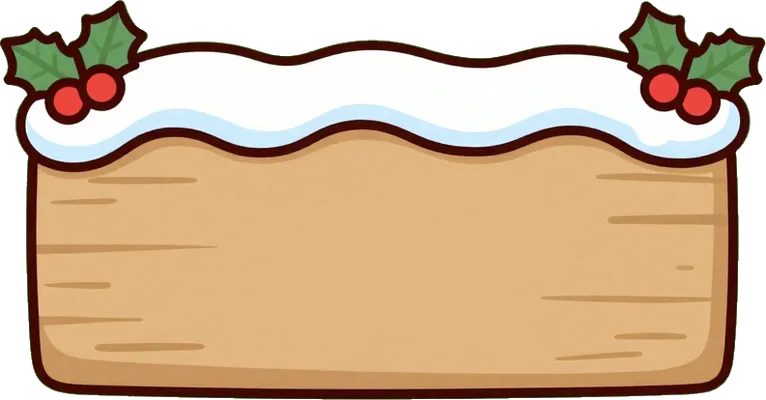
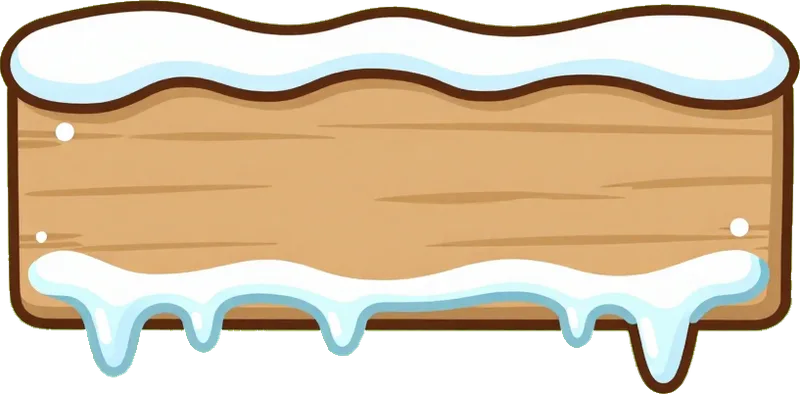
feat(home): icy signboard and gashapon card composed from the machine illustration
Sign: snow on top, a row of icicles below, no christmas holly. The card
background is generated, the machine is pasted from gashapon/img so both
pages show the same machine. build-cards --only / build-sign now stamp
content hashes into index.html / home.css.

Claude-Session: https://claude.ai/code/session_01SemYkQLkTmSDDeYUKQcPZG

diff --git a/css/home.css b/css/home.css
@@ -21,18 +21,19 @@ body {
 
 /* 標題掛在一塊木牌上(生成圖,透明背景)。文字仍然是 HTML,不畫進圖裡 ——
    生圖模型畫中文字會錯,而且圖裡的字螢幕閱讀器讀不到、之後也改不了。
-   木牌上緣 ~25% 是積雪,文字要往下推,落在木板中間。 */
+   木牌上緣是積雪、下緣是冰柱(2026-10-01 冰雪版),木板本體的中心在 52% 高度,文字往下推一點落在正中間。 */
 .home-head h1 {
   display: inline-grid;
   place-items: center;
   --sign-w: clamp(240px, 62vw, 380px);
   width: var(--sign-w);
-  aspect-ratio: 766 / 400;            /* 跟 img/home/sign.webp 一樣 */
+  aspect-ratio: 800 / 394;            /* 跟 img/home/sign.webp 一樣 */
   /* 不能寫 padding-top: 7% —— padding 的百分比是相對「外層容器」的寬度,
      不是木牌本身,視窗越寬字被推得越低(1440 寬時字掉到木牌 75% 的高度)。 */
-  padding-top: calc(var(--sign-w) * .15);   /* 讓字落在積雪下方那塊木板的中間(約 65% 高度) */
+  /* 字是置中排的,木板中心比正中央低 2.2%:padding-top = 2 × 0.022 × 木牌高(0.4925 × 寬)≈ 寬 × .022 */
+  padding-top: calc(var(--sign-w) * .022);
   font-size: calc(var(--sign-w) * .1);   /* 字跟著木牌大小縮放 */
-  background: url("../img/home/sign.webp") center / contain no-repeat;
+  background: url("../img/home/sign.webp?v=7c822ad7") center / contain no-repeat;
 }
 
 .home-grid {
@@ -82,8 +83,15 @@ body {
 }
 
 /* 扭蛋機:上白下彩,跟膠囊造型呼應 */
-.card__art--gashapon {
-  background: linear-gradient(to bottom, #fff 50%, var(--coral) 50%);
+/* 有插畫的卡片(2026-10-01 起扭蛋機先換;其他模式跟著各自的素材 issue):4:3、撐滿卡片內緣 */
+.card__art--img {
+  width: 100%;
+  height: auto;
+  aspect-ratio: 4 / 3;
+  border-radius: 14px;
+  border: 3px solid var(--ink);
+  object-fit: cover;
+  display: block;
 }
 
 /* 立體扭蛋機:加一顆高光,做出球體感 */

diff --git a/test/home-images.test.js b/test/home-images.test.js
@@ -14,7 +14,7 @@ function refs() {
   const fromHtml = [...html.matchAll(/<img\b[^>]*\bsrc="([^"]+)"/g)].map(m => m[1]);
   // home.css 的 url() 相對於 css/,換算成相對於 repo 根目錄
   const fromCss = [...css.matchAll(/url\(\s*["']?([^"')]+)["']?\s*\)/g)].map(m => join('css', m[1]));
-  return [...fromHtml, ...fromCss].filter(p => !/^(data:|https?:)/.test(p));
+  return [...fromHtml, ...fromCss].filter(p => !/^(data:|https?:)/.test(p)).map(p => p.split('?')[0]);
 }
 
 // 卡片插畫延到各模式的 issue(#2~#6)一起做,這一輪首頁只有標題木牌
@@ -24,4 +24,8 @@ test('首頁標題有用到木牌插畫', () => {
 
 test('首頁引用的每一張圖都存在', () => {
   for (const p of refs()) assert.ok(existsSync(join(root, p)), `找不到 ${p}`);
+});
+
+test('首頁的扭蛋機卡片用了插畫(機台跟扭蛋機頁同一張合成)', () => {
+  assert.ok(refs().some(p => p.endsWith('img/home/gashapon.webp')), refs().join('\n'));
 });

diff --git a/index.html b/index.html
@@ -15,7 +15,7 @@
 </header>
 <main class="home-grid">
   <a class="card" href="gashapon/">
-    <span class="card__art card__art--gashapon" aria-hidden="true"></span>
+    <img class="card__art card__art--img" src="img/home/gashapon.webp?v=107d85a2" alt="" aria-hidden="true">
     <span class="card__name">扭蛋機</span>
     <span class="card__desc">搖越多次越大獎</span>
   </a>

diff --git a/tools/mascot-gen/home.py b/tools/mascot-gen/home.py
@@ -21,6 +21,7 @@ from PIL import Image
 
 import comfy
 from post import key_border, keep_largest
+from gashapon_art import compose_card, content_hash, stamp, clear_green_fringe
 
 ROOT = Path(__file__).resolve().parents[2]
 HERE = Path(__file__).resolve().parent
@@ -137,8 +138,22 @@ def card_images(cfg):
 
 def cmd_build_cards(args):
     DEST.mkdir(parents=True, exist_ok=True)
-    for m, im in card_images(load_cfg()).items():
-        webp(im.resize((640, 480), Image.LANCZOS), DEST / f'{m}.webp')
+    cfg = load_cfg()
+    if args.only:
+        # 只輸出單張(各模式的卡片跟著自己的素材 issue 做,不必等 5 張都挑好)
+        if args.only not in cfg.get('picks', {}):
+            sys.exit(f'還沒 pick:{args.only}')
+        images = {args.only: Image.open(OUT / args.only / f's{cfg["picks"][args.only]}.png').convert('RGB')}
+    else:
+        images = card_images(cfg)
+    page = ROOT / 'index.html'
+    for m, im in images.items():
+        if m == 'gashapon':
+            # 機台用扭蛋機頁那張,不讓 z_image 另外畫一台
+            im = compose_card(im, Image.open(ROOT / 'gashapon' / 'img' / 'machine.webp'))
+        path = DEST / f'{m}.webp'
+        webp(im.resize((640, 480), Image.LANCZOS), path)
+        page.write_text(stamp(page.read_text(), f'img/home/{m}.webp', content_hash(path)))
     report()
 
 
@@ -149,10 +164,14 @@ def cmd_build_sign(args):
     DEST.mkdir(parents=True, exist_ok=True)
     sign = Image.open(OUT / 'sign' / f's{cfg["picks"]["sign"]}.png').convert('RGB')
     # z_image 不保證畫出純綠底,所以從邊緣往內填色去背,再清掉散落的小點
-    rgba = Image.fromarray(keep_largest(key_border(np.asarray(sign))))
+    # 腳下的綠色陰影比底色深、又連著木牌,key_border 吃不掉 → 再過一道 clear_green_fringe
+    rgba = Image.fromarray(keep_largest(clear_green_fringe(key_border(np.asarray(sign)))))
     rgba = rgba.crop(rgba.getbbox())          # 裁掉去背後四周的透明邊
     rgba.thumbnail((800, 400), Image.LANCZOS)
     webp(rgba, DEST / 'sign.webp')
+    print('sign size', rgba.size)
+    css = ROOT / 'css' / 'home.css'
+    css.write_text(stamp(css.read_text(), '../img/home/sign.webp', content_hash(DEST / 'sign.webp')))
     report()
 
 
@@ -169,7 +188,7 @@ def main():
     sub.add_parser('sign')
     sub.add_parser('review')
     p = sub.add_parser('pick'); p.add_argument('name', choices=['sheet', *MODES, 'sign']); p.add_argument('n', type=int)
-    sub.add_parser('build-cards')
+    bc = sub.add_parser('build-cards'); bc.add_argument('--only', choices=MODES)
     sub.add_parser('build-sign')
     args = ap.parse_args()
     {'sheet': cmd_sheet, 'cards': cmd_cards, 'sign': cmd_sign, 'review': cmd_review, 'pick': cmd_pick, 'build-cards': cmd_build_cards, 'build-sign': cmd_build_sign}[args.cmd](args)

diff --git a/tools/mascot-gen/test_gashapon_art.py b/tools/mascot-gen/test_gashapon_art.py
@@ -160,3 +160,17 @@ class Panel(unittest.TestCase):
             close = lambda px, rgb: all(abs(int(a) - b) <= 8 for a, b in zip(px[:3], rgb))
             self.assertTrue(close(out[325, 400], (255, 250, 235)), out[325, 400])   # 面板中心
             self.assertTrue(close(out[325, 80], (150, 200, 240)), out[325, 80])     # 面板左邊外面是框
+
+
+from gashapon_art import compose_card
+
+
+class ComposeCard(unittest.TestCase):
+    def test_machine_centered_at_bottom_and_scaled(self):
+        from PIL import Image
+        bg = Image.new('RGB', (400, 300), (0, 0, 255))
+        m = Image.new('RGBA', (30, 40), (255, 0, 0, 255))
+        out = compose_card(bg, m, 0.5)
+        self.assertEqual(out.size, (400, 300))
+        self.assertEqual(out.getpixel((200, 250)), (255, 0, 0))   # 機台在底部中間
+        self.assertEqual(out.getpixel((10, 10)), (0, 0, 255))     # 其他地方是背景

diff --git a/tools/mascot-gen/gashapon_art.py b/tools/mascot-gen/gashapon_art.py
@@ -130,3 +130,16 @@ def fit_panel(rgba, box, canvas, target):
     out = Image.new('RGBA', canvas, (0, 0, 0, 0))
     out.paste(scaled, (round(tx0 - bx0 * sx), round(ty0 - by0 * sy)))
     return np.asarray(out)
+
+
+def compose_card(bg, machine, height_frac=0.82):
+    """首頁卡片:背景是 z_image 生的雪地,機台直接用扭蛋機頁那張 —— 兩邊保證是同一台。"""
+    from PIL import Image
+    out = bg.convert('RGB').copy()
+    h = round(out.height * height_frac)
+    w = round(machine.width * h / machine.height)
+    m = machine.convert('RGBA').resize((w, h), Image.LANCZOS)
+    x = (out.width - w) // 2
+    y = out.height - h - round(out.height * 0.04)
+    out.paste(m, (x, y), m)
+    return out
